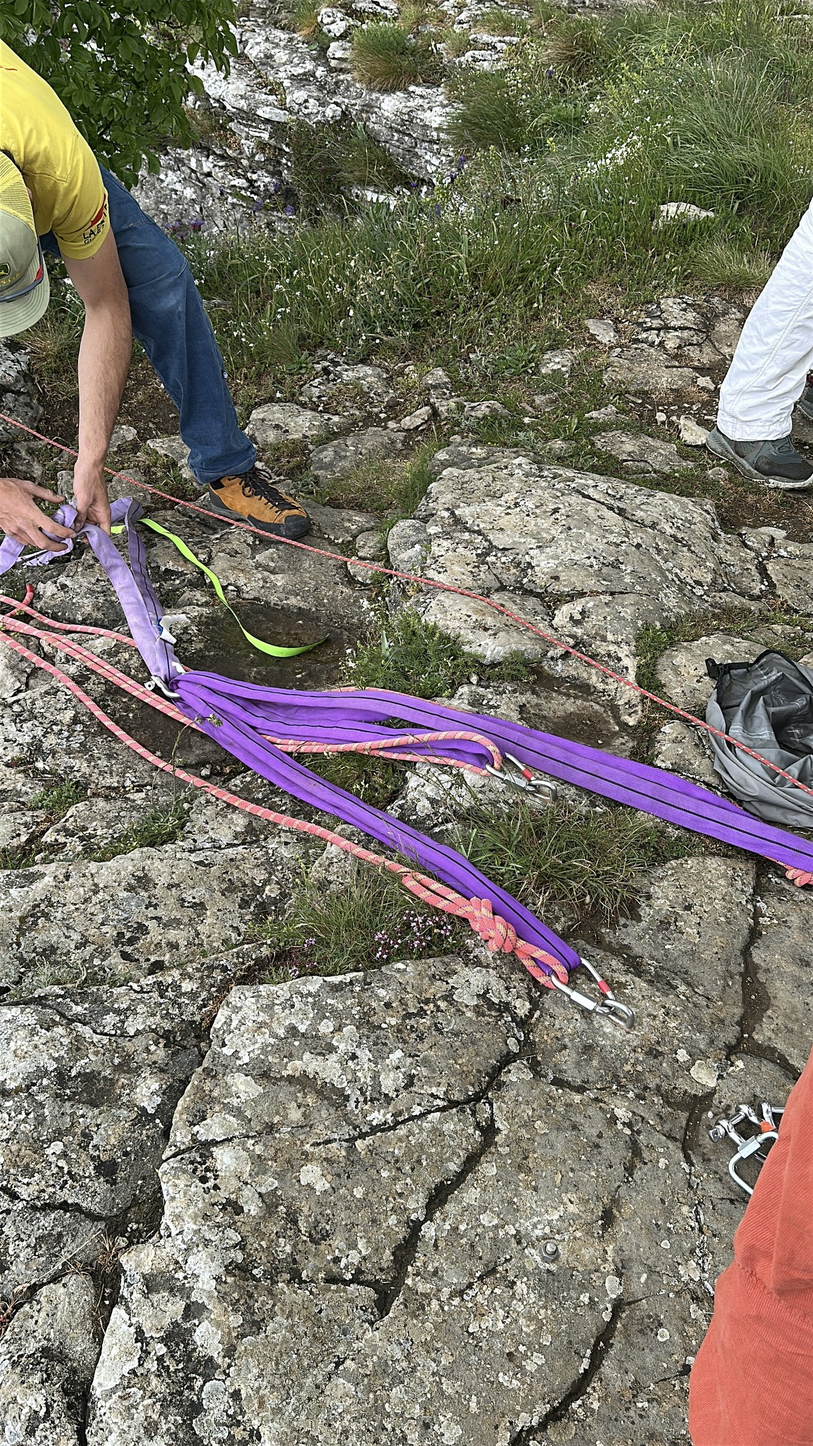
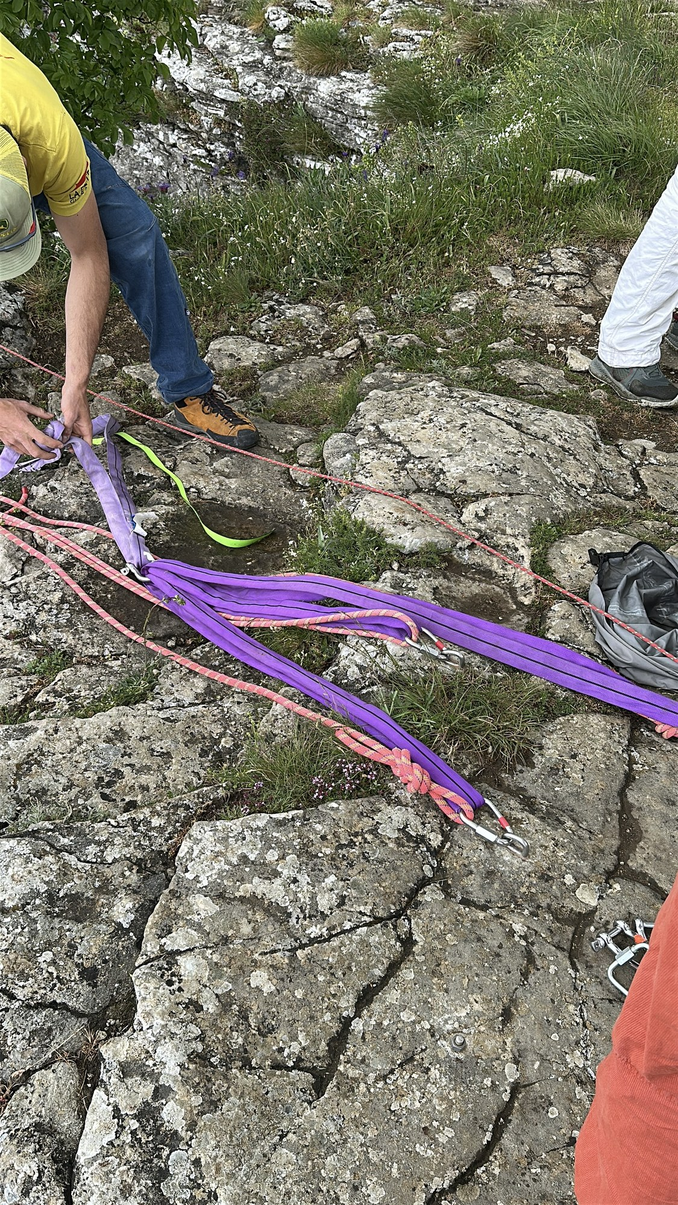
Trova l'etichetta delle brache e la dichiara illeggibile
IMG_1360, fornita dall'utente il 20/08/2026, e' delle 13:07:45: stesso minuto di
IMG_1357 e IMG_1359, la stesa del materiale. Era gia' in repo come derivato senza
EXIF e non era usata da nessuna pagina.

Guardandola da vicino si vede la cosa che il progetto cercava da settimane:
**l'etichetta cucita** sulla braca viola. Bianca, filo blu, sulla cucitura della
calza. E' rivoltata, e non si legge una parola — ma esiste, si sa dov'e' e si sa
che una sola fotografia ravvicinata chiude il dubbio 37, che e' il piu' pericoloso
di tutto il documento.

Il manuale prende una sottosezione nuova che dice esattamente questo, con il
ritaglio dell'etichetta e il motivo per cui la portata non viene scritta lo
stesso: il colore sbiadisce, le codifiche cambiano fra costruttori, e una riga
cucita non e' una riga di portata. Finche' l'etichetta non si legge, la scheda
non dichiara quanto tengono le slinghe su cui sta appesa la linea.

La foto entra anche nella pagina delle due soste, dove le tre immagini delle 13:07
adesso raccontano insieme la stesa. Chiude niente altro: la maglia delta e i
grilli a lira si vedono d'acciaio ma le incisioni non si leggono, e i dubbi 12 e
19 restano aperti annotando dove guardare.

Il suo GPS e' la seconda lettura all'ancoraggio main, quattro ore prima di
IMG_1416 e a pochi metri: due letture dello stesso telefono non fanno una misura,
ma concordano.

foto() cerca ora anche in lavorazione/dettagli/, cosi' un ritaglio si chiama per
nome come tutto il resto.
[…]

diff --git a/build/scheda_53.py b/build/scheda_53.py
@@ -24,6 +24,7 @@ from PIL import Image as _PILImage                                  # noqa: E402
 
 ANN = RADICE / 'lavorazione' / 'frame_annotati'
 FOTO = RADICE / 'lavorazione' / 'foto_dritte'
+DETT = RADICE / 'lavorazione' / 'dettagli'
 
 LINEA = HexColor(0xF97316)
 C_ANC = LC[1]                   # ancoraggio      (rosso)
@@ -47,7 +48,9 @@ def dim(p):
 
 
 def foto(nome, w, cap, color=None, ratio=None, focus=0.5):
-    p = FOTO / nome if (FOTO / nome).exists() else ANN / nome
+    # tre cartelle, un nome solo: foto raddrizzate, frame annotati, ritagli di
+    # dettaglio. Cosi' chi scrive una pagina non deve sapere dove sta il file.
+    p = next((c / nome for c in (FOTO, ANN, DETT) if (c / nome).exists()), FOTO / nome)
     ow, oh = dim(p)
     return PhotoStrip(str(p), w, ow, oh, cap, color, ratio, focus)
 
@@ -124,6 +127,10 @@ def parte_53():
         *dim(FOTO / 'IMG_1357.jpg'), color=C_SOS, ratio=1.02, focus=0.5,
         ow2=dim(FOTO / 'IMG_1359.jpg')[0], oh2=dim(FOTO / 'IMG_1359.jpg')[1]))
     S.append(SP(14))
+    S.append(foto('IMG_1360.jpg', FW,
+                  'Slinghe viola, corde rosa, fettuccia verde, grilli e maglie rapide '
+                  '· IMG_1360, 13:07', C_SOS, ratio=0.70, focus=0.42))
+    S.append(SP(14))
     S.append(P('<b>Come procede</b>', h3))
     S.append(SP(5))
     S.append(BU('Le due soste vengono allestite <b>in parallelo</b>, non una dopo l’altra: '
@@ -138,6 +145,32 @@ def parte_53():
     S.append(SP(10))
     S.append(P('Lunghezze e diametri di slinghe e corde non vengono pronunciati: sono ' + DC +
                ' e vanno raccolti dal gruppo.', small))
+    S.append(SP(26))
+
+    # ================================================================ etichette
+    # La portata delle slinghe e' il dato piu' pericoloso da sbagliare di tutto
+    # il documento: qui si dice che l'etichetta esiste e non si legge, e basta.
+    sec(C_SOS, 'Le due soste')
+    S.append(_apre(
+        LineHeader('', 'La portata delle slinghe', _occh('le due soste · etichette'), C_SOS),
+        P('Le slinghe della sosta main sono <b>brache ad anello industriali</b>: calza cucita '
+          'per il lungo ed etichetta in tessuto. Nelle fotografie delle 13:07 l’etichetta '
+          '<b>c’è</b> — bianca, cucita con filo blu sulla cucitura della calza — ma è '
+          'rivoltata, e in nessuna inquadratura si legge. <b>La portata resta sconosciuta.</b>',
+          lead)))
+    S.append(SP(12))
+    S.append(foto('IMG_1360_etichetta.jpg', FW,
+                  'L’etichetta cucita sulla calza, rivoltata · dettaglio da IMG_1360, 13:07',
+                  C_SOS, ratio=0.66, focus=0.5))
+    S.append(SP(14))
+    S.append(callout('Il colore non è una marcatura',
+                     'Una calza viola con una riga scura assomiglia a una portata dichiarata, e '
+                     'la tentazione di scriverla è forte. Non viene scritta. Il colore sbiadisce '
+                     'al sole, le codifiche non sono le stesse per tutti i costruttori, e una '
+                     'riga cucita non è una riga di portata. <b>L’unico dato che vale è quello '
+                     'stampato sull’etichetta</b>, e per averlo serve una fotografia ravvicinata '
+                     'dell’etichetta distesa. Finché non c’è, questa scheda non dichiara quanto '
+                     'tengono le slinghe su cui sta appesa la linea.', WARN, '!', FW, True))
     S.append(SP(26))
 
     # ================================================================ p5 — ancoraggio

diff --git a/build/build_scheda_dubbi.py b/build/build_scheda_dubbi.py
@@ -252,11 +252,12 @@ sezione('4', 'Ancoraggio e verifiche a immagine', 'Sezione 4 · da guardare e fo
         C_ANC,
         'Voci emerse esaminando i fotogrammi. Alcune si chiudono guardando meglio, altre '
         'richiedono uno scatto nuovo da fare sul posto.',
-        [(37, '<b>Portata (WLL) delle brache.</b> Il tipo è confermato: brache ad anello '
-              'industriali. In IMG_1366 @ 0:17 la viola ha una riga nera, e viola + 1 riga '
-              'in EN 1492-2 vale 1 t — ma due indizi convergenti non sono una marcatura. '
-              '<b>Serve la fotografia di un\'etichetta.</b>',
-          'IMG_1366 @ 0:17 · il danno peggiore possibile se sbagliata', 2, True),
+        [(37, '<b>Portata (WLL) delle brache.</b> L\'etichetta esiste e si vede in '
+              'IMG_1360 e IMG_1357 — bianca, cucita con filo blu sulla cucitura della '
+              'calza — ma in tutte le inquadrature è rivoltata. <b>Serve una fotografia '
+              'ravvicinata dell\'etichetta distesa</b>, di una braca per ogni tipo usato: '
+              'e\' l\'unico modo di scrivere la portata senza indovinarla.',
+          'IMG_1360 · IMG_1357 · il danno peggiore possibile se sbagliata', 2, True),
          (38, 'Nell\'ancoraggio c\'è <b>protezione veloce</b> — un friend — accanto ai punti '
               'fissi? Un dispositivo compatibile si intravede ma il fotogramma è mosso. '
               '<b>Scatto da fare sul campo.</b>',

diff --git a/DUBBI.md b/DUBBI.md
@@ -54,14 +54,14 @@ e tipo di roccia.
 | 9 | A | Diametro, tipo e lunghezza delle corde **rosa** del backup | Tabella materiale | `[IMG_1349 @ 0:00]` | aperto |
 | 10 | A | Modello del **BFK** sulla corda rosa | Tabella materiale | `[IMG_1350 @ 0:00]` | aperto |
 | 11 | A | Diametro e lunghezza della corda **azzurra** (tagline, poi linea vita) | Tabella materiale | `[IMG_1350 @ 0:37]` | aperto |
-| 12 | A | Misura e materiale delle **4 maglie delta** | Unica quantità certa del corpus, manca la misura | `[IMG_1350 @ 0:53]` | aperto |
+| 12 | A | Misura e materiale delle **4 maglie delta** | Unica quantità certa del corpus, manca la misura | `[IMG_1350 @ 0:53]`, `IMG_1360` | aperto — in `IMG_1360` se ne vede una **d'acciaio, con ghiera filettata incisa**, ma l'incisione non è leggibile |
 | 13 | A | Cos'è il «**Mighty Lock**», «quello quadratino» | Nome commerciale storpiato dalla trascrizione | `[IMG_1351 @ 0:19-0:28]` | aperto |
 | 14 | C | Misura della fettuccia **verde lunga**, «la più grossa che c'è» | Tabella materiale | `[IMG_1369 @ 0:31]` | aperto |
 | 15 | D | Misura della fettuccia **piccola viola** | Tabella materiale | `[IMG_1373 @ 0:41]` | aperto |
 | 16 | G | Misura della fettuccia **verde e nera** | Tabella materiale | `[IMG_1389 @ 0:02]` | aperto |
 | 17 | E–G | «**Banana**»: è il weblock? Quale modello? | Nome di gergo non risolto | `[IMG_1381 @ 0:12]`, `[IMG_1395 @ 0:25]` | ✅ **weblock azzurro anodizzato**, visibile in `IMG_1384 @ 0:03` e `0:50`. Modello ancora aperto |
 | 18 | G | Modello del **softrelease** | Tabella materiale | `[IMG_1394 @ 0:15]` | aperto |
-| 19 | F | Misura e tipo dei **grilli** | Tabella materiale | `[IMG_1384 @ 0:00]` | aperto |
+| 19 | F | Misura e tipo dei **grilli** | Tabella materiale | `[IMG_1384 @ 0:00]`, `IMG_1360` | aperto — in `IMG_1360` si vedono **grilli a lira d'acciaio con perno**, marcature non leggibili |
 | 20 | E | Composizione del **paranchino di tensionamento della base** (carrucole, rapporto) | Sequenza di tensionamento | `[IMG_1380 @ 0:09]` | aperto |
 | 21 | E | Quanti **Grigri** in totale e su cosa | «un altro Grigri» implica almeno due | `[IMG_1378 @ 0:42]` | aperto |
 | 22 | — | Nastro della highline: marca, larghezza, tipo | Mai nominato in nessun video | — | aperto |
@@ -89,7 +89,7 @@ e tipo di roccia.
 
 | # | Fase | Cosa manca | Perché serve | Fonte del dubbio | Stato |
 |---|---|---|---|---|---|
-| 37 | A–D | **Portata (WLL) delle slinghe.** Tipo ✅ confermato: brache ad anello industriali. Resta la portata: in `IMG_1366 @ 0:17` la viola ha **una riga nera**; viola + 1 riga = 1 t in EN 1492-2 | Due indizi convergenti non sono una marcatura. Scrivere una portata sbagliata è il danno peggiore possibile in questo documento | `IMG_1366 @ 0:17` + conferma utente | **aperto — serve foto di un'etichetta** |
+| 37 | A–D | **Portata (WLL) delle slinghe.** Tipo ✅ confermato: brache ad anello industriali. Resta la portata: in `IMG_1366 @ 0:17` la viola ha **una riga scura** per il lungo | Due indizi convergenti non sono una marcatura. Scrivere una portata sbagliata è il danno peggiore possibile in questo documento | `IMG_1366 @ 0:17`, `IMG_1360`, `IMG_1357` | **aperto, ma adesso si sa dove guardare** — in `IMG_1360` (utente, 20/08/2026) **l'etichetta si vede**: bianca, cucita con filo blu sulla cucitura della calza, **rivoltata e illeggibile**. Ne compare una anche in `IMG_1357`. Serve **una foto ravvicinata dell'etichetta distesa**, nient'altro |
 | 38 | D | **Nell'ancoraggio c'è protezione veloce (friend) accanto ai punti fissi?** Un dispositivo compatibile si intravede ma il fotogramma è mosso | Cambia la sezione ancoraggi e la checklist | `IMG_1374 @ 0:33` | **rimandato al campo** — l'utente farà lo scatto. Il manuale porta una nota esplicita al posto del dato |
 | 39 | D | **Che tipo sono i «punti»** | Sezione ancoraggi | `IMG_1371.JPEG`, `IMG_1372.JPEG` (foto iCloud, 13:41) | ✅ **placchetta metallica su bullone con dado esagonale** — quindi tassello/fittone meccanico, **non** spit a vite né resinato con occhiello integrato. Marca e diametro del bullone restano aperti |
 | 40 | D | Marca e modello del dispositivo nero | Tabella materiale | `IMG_1371.JPEG` (dettaglio in `lavorazione/dettagli/`) | ✅ **carrucola bloccante**, guancie nere e puleggia arancio. Marcature lette: `CE 0082`, `UK CA 20`, **`EN 567:2013`**, `Ø 7,8-11 mm`. ⚠ Avevo letto `EN 892` dal video: la foto smentisce. Marca ancora aperta (logo non leggibile) |

diff --git a/lavorazione/metadati_foto.md b/lavorazione/metadati_foto.md
@@ -12,10 +12,19 @@ dice «non letto», l'originale non è passato dallo strumento e il dato non è 
 | File | Scatto | Dispositivo | GPS | Quota | Pixel originali |
 |---|---|---|---|---|---|
 | `IMG_1416` | 16/05/2026 17:14:38 | Apple iPhone 14 Pro | 44.419869, 10.412353 | 1025 m | 1980×3520 |
+| `IMG_1360` | 16/05/2026 13:07:45 | Apple iPhone 14 Pro | 44.419839, 10.412339 | 1024 m | 1980×3520 |
 
 Le altre fotografie in `foto_dritte/` sono state importate prima che questo
 registro esistesse e la loro copia in repo non porta più l'EXIF. Per recuperarlo
 basta ripassare gli originali dal telefono attraverso `importa_foto.py`.
+
+## Due letture a quattro ore di distanza
+
+`IMG_1360` (13:07) e `IMG_1416` (17:14) sono state scattate entrambe all'ancoraggio
+main, a quattro ore l'una dall'altra, e le due posizioni distano **una manciata di
+metri**. Non e' una misura ripetuta — sono due letture dello stesso telefono nello
+stesso posto — ma concordano, e questo e' quanto di piu' vicino a una verifica il
+progetto abbia oggi su quella coordinata.
 
 ## Che valore ha la posizione
 
